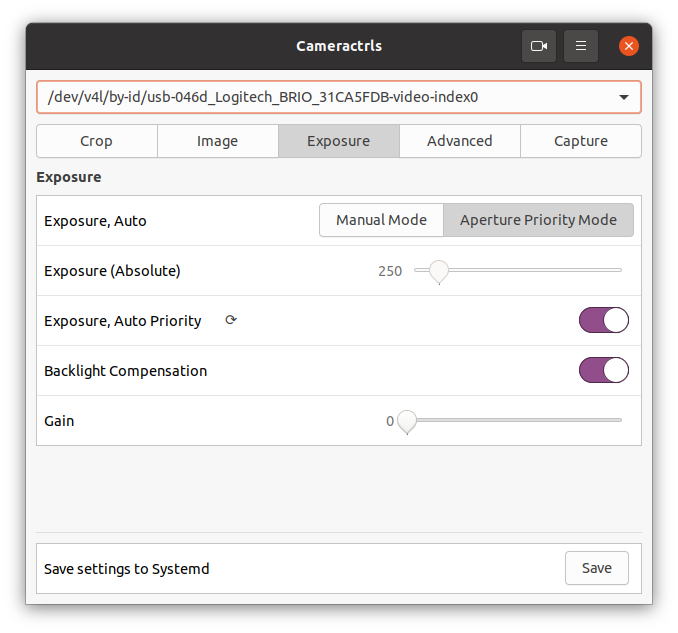
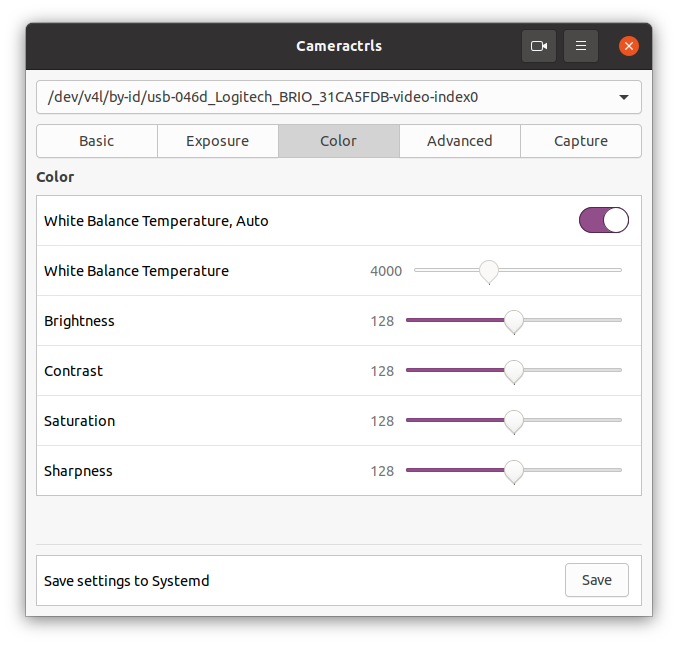
v0.4.9

diff --git a/cameractrls.py b/cameractrls.py
@@ -4,7 +4,7 @@ import ctypes, logging, os.path, getopt, sys, subprocess
 from fcntl import ioctl
 
 ghurl = 'https://github.com/soyersoyer/cameractrls'
-version = 'v0.4.8'
+version = 'v0.4.9'
 
 
 v4ldirs = {

diff --git a/CHANGELOG.md b/CHANGELOG.md
@@ -1,5 +1,13 @@
 # Changelog
 
+## [0.4.9] - 2022-08-20
+
+### Added
+- Control tooltips
+
+### Changed
+- Reordered pages
+
 ## [0.4.8] - 2022-08-19
 
 ### Changed
